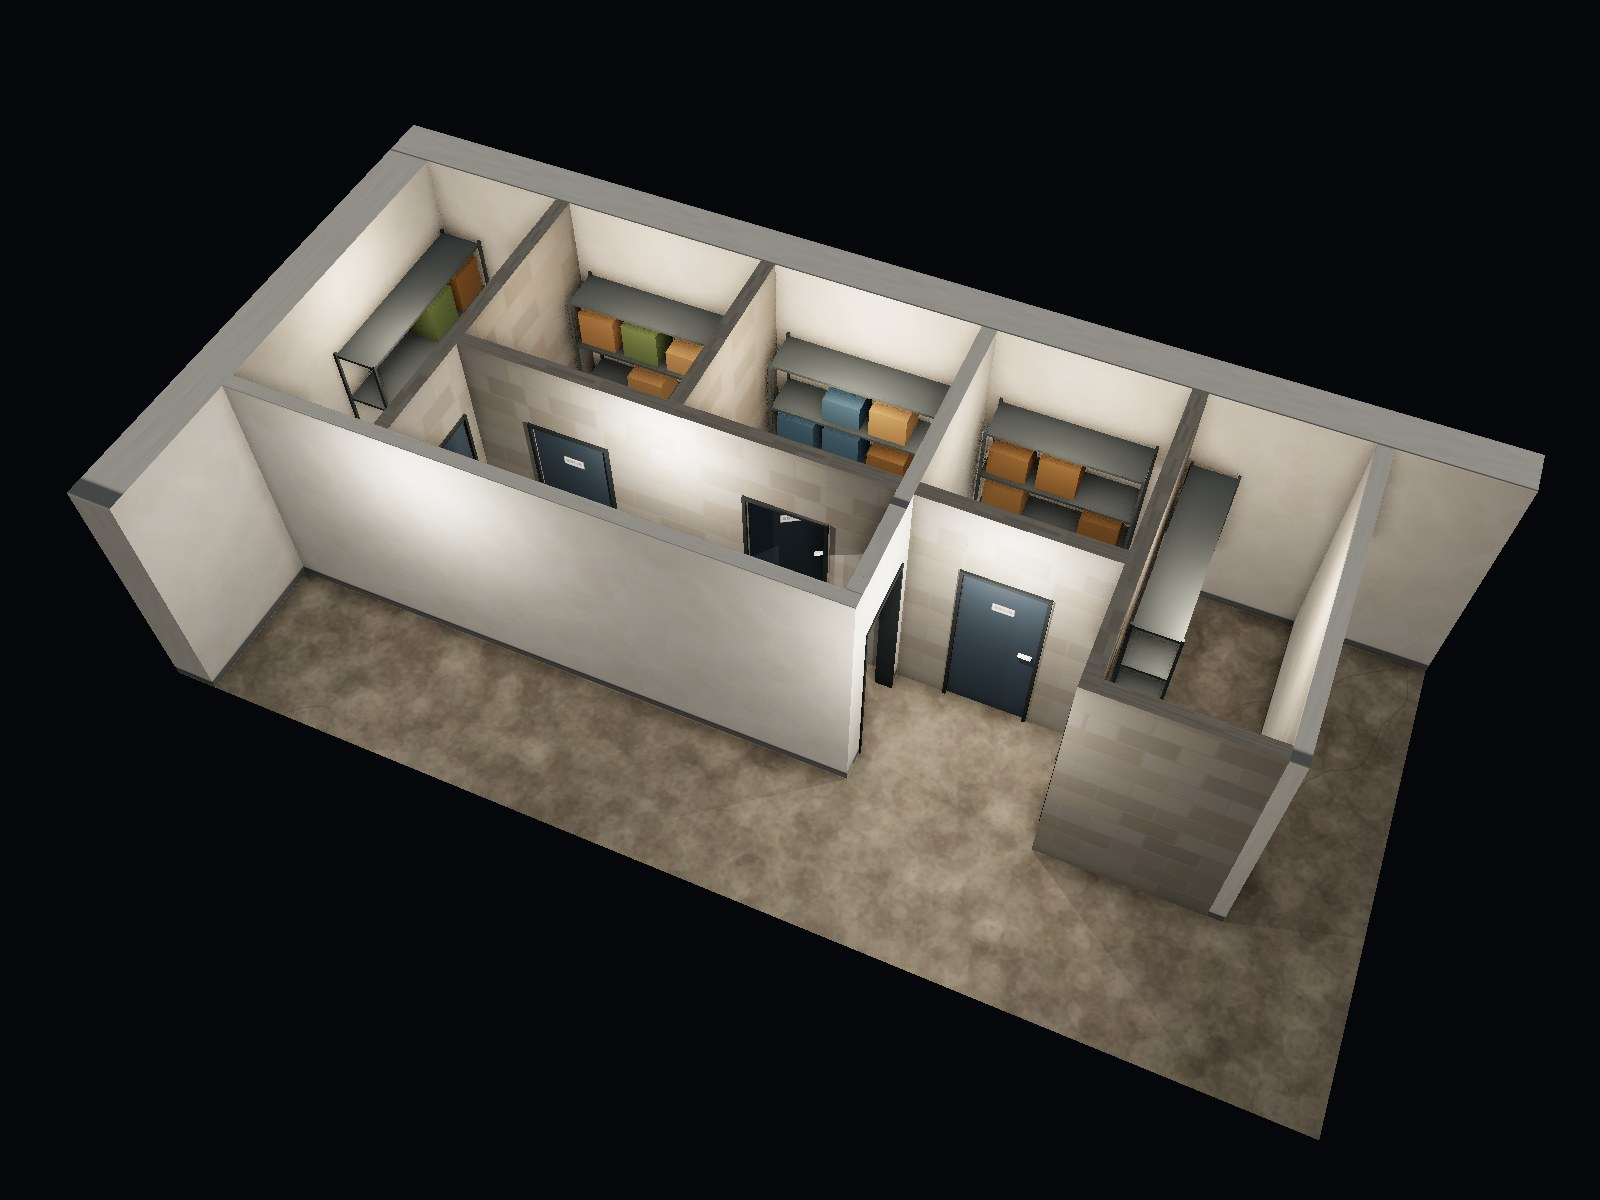
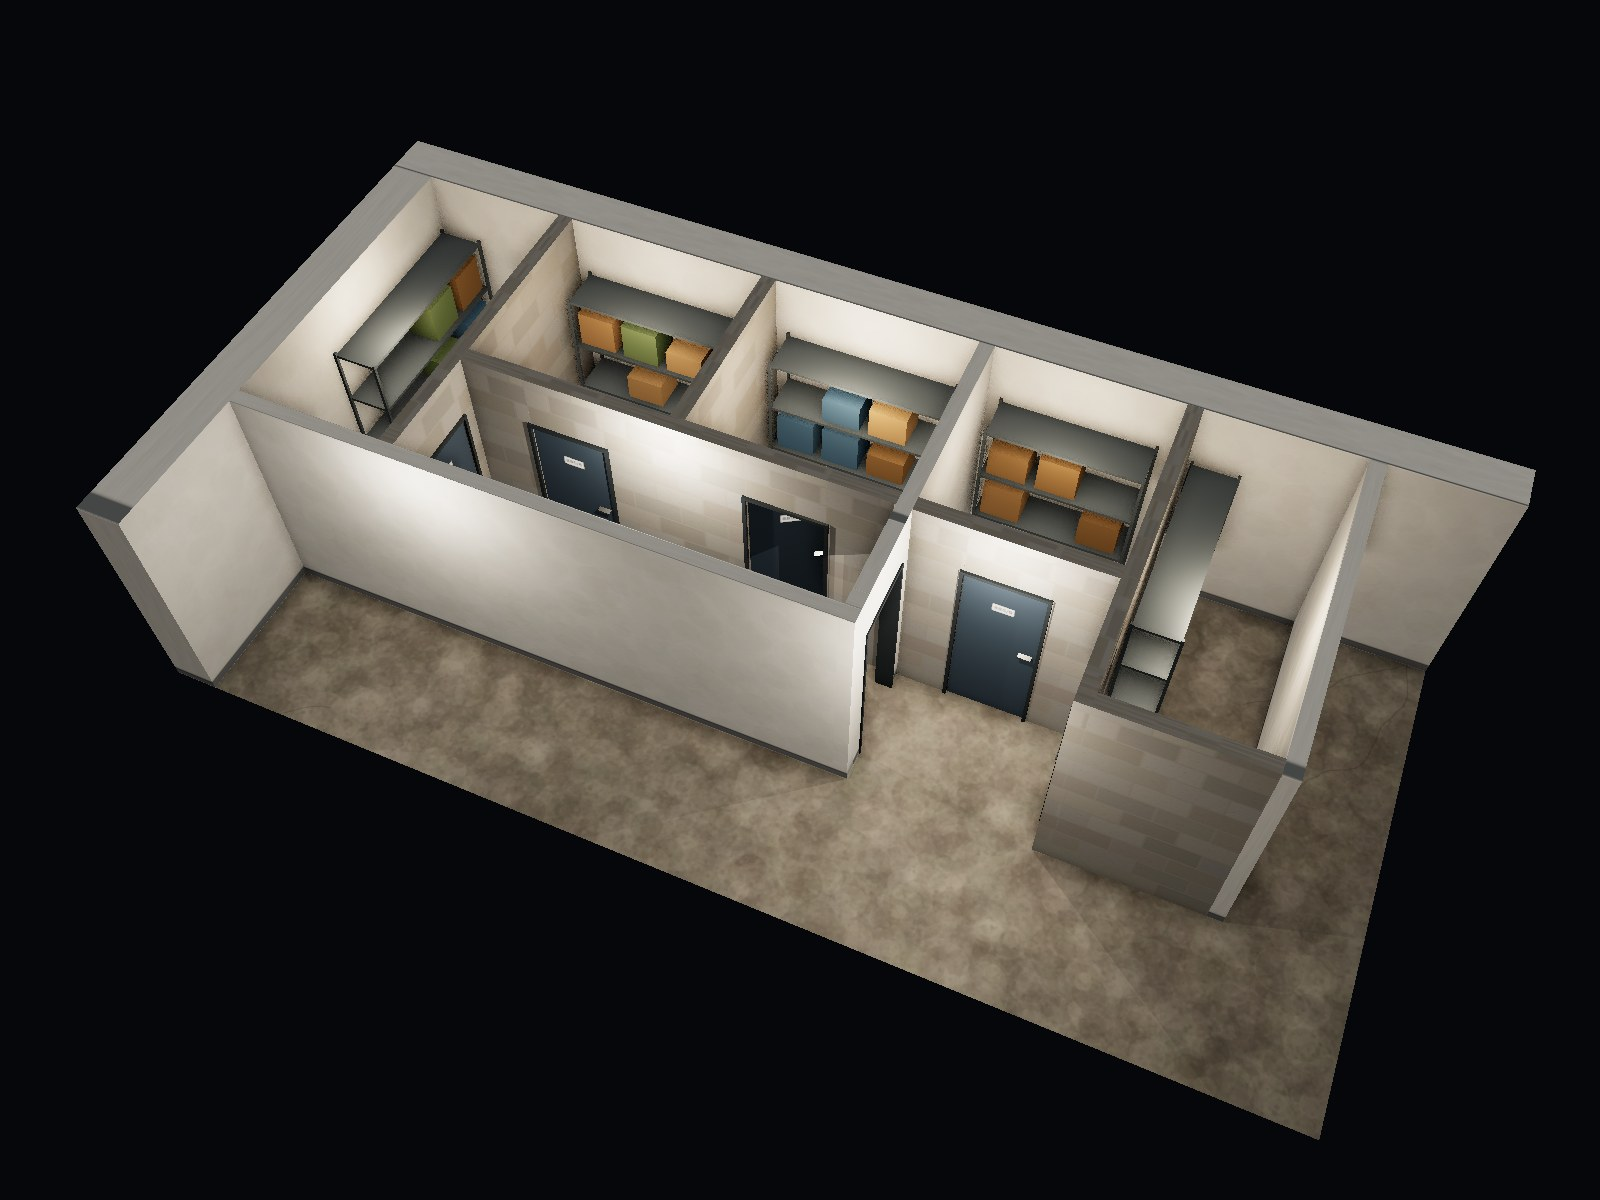
V0 widened to 2,45 m (rows A and B both 23,10 m), clear height 2,60 m in dimensions and 3D
Claude-Session: https://claude.ai/code/session_01PwTnPep7yYfhi5YvdxRW3v

diff --git a/sklepyjachymov.html b/sklepyjachymov.html
@@ -450,17 +450,17 @@
                     <rect x="276" y="274.4" width="220" height="212" class="working-room" onclick="selectItem('working', 'B2', 'Fyzická místnost B2', '5,50 x 5,30 m (29,15 m²)', 'Sklepní prostor pro kóje 885/4 a 885/5')"></rect>
                     <text x="386" y="380" class="label-title">B2 (5,5 × 5,3 m)</text>
 
-                    <rect x="496" y="274.4" width="96" height="212" class="unusable-room" onclick="selectItem('unusable', 'V0', 'Nepoužitelný prostor', '2,40 x 5,30 m', 'Výsep pod schodištěm')"></rect>
+                    <rect x="496" y="274.4" width="98" height="212" class="unusable-room" onclick="selectItem('unusable', 'V0', 'Nepoužitelný prostor', '2,45 x 5,30 m', 'Výsep pod schodištěm')"></rect>
                     <text x="544" y="370" class="label-title" fill="#455a64">V0</text>
                     <text x="544" y="390" class="label-sub" fill="#37474f" font-weight="bold">VÝSEP</text>
 
-                    <rect x="592" y="274.4" width="96" height="212" class="working-room" onclick="selectItem('working', 'B3', 'Fyzická místnost B3', '2,40 x 5,30 m (12,72 m²)', 'Součást nb. j. 885/12')"></rect>
+                    <rect x="594" y="274.4" width="96" height="212" class="working-room" onclick="selectItem('working', 'B3', 'Fyzická místnost B3', '2,40 x 5,30 m (12,72 m²)', 'Součást nb. j. 885/12')"></rect>
                     <text x="640" y="380" class="label-title">B3 (2,4m)</text>
 
-                    <rect x="688" y="274.4" width="132" height="212" class="working-room" onclick="selectItem('working', 'B4', 'Fyzická místnost B4', '3,30 x 5,30 m (17,49 m²)', 'Součást nb. j. 885/12')"></rect>
+                    <rect x="690" y="274.4" width="132" height="212" class="working-room" onclick="selectItem('working', 'B4', 'Fyzická místnost B4', '3,30 x 5,30 m (17,49 m²)', 'Součást nb. j. 885/12')"></rect>
                     <text x="754" y="380" class="label-title">B4 (3,3m)</text>
 
-                    <rect x="820" y="274.4" width="192" height="212" class="working-room" onclick="selectItem('working', 'B5', 'Fyzická místnost B5', '4,80 x 5,30 m (25,44 m²)', 'Součást nb. j. 885/12')"></rect>
+                    <rect x="822" y="274.4" width="192" height="212" class="working-room" onclick="selectItem('working', 'B5', 'Fyzická místnost B5', '4,80 x 5,30 m (25,44 m²)', 'Součást nb. j. 885/12')"></rect>
                     <text x="916" y="380" class="label-title">B5 (4,8 × 5,3 m)</text>
                 </g>
 
@@ -493,7 +493,7 @@
                     <text x="183" y="370" class="label-title" fill="#d84315">nb. j. č. 885/11</text>
                     <text x="183" y="390" class="label-title" fill="#d84315" font-size="11px">(27,83 m²)</text>
 
-                    <path d="M 592,274.4 L 774,274.4 L 774,212 L 1012,212 L 1012,486.4 L 592,486.4 Z" class="official-unit" onclick="selectItem('official', 'nb. j. č. 885/12', 'Nebytová jednotka', 'Výměra z PV: 59,03 m²', 'Společný blok: B3 + B4 + B5 + B6')"></path>
+                    <path d="M 594,274.4 L 774,274.4 L 774,212 L 1014,212 L 1014,486.4 L 594,486.4 Z" class="official-unit" onclick="selectItem('official', 'nb. j. č. 885/12', 'Nebytová jednotka', 'Výměra z PV: 59,03 m²', 'Společný blok: B3 + B4 + B5 + B6')"></path>
                     <text x="802" y="370" class="label-title" fill="#d84315">nb. j. č. 885/12</text>
                     <text x="802" y="390" class="label-title" fill="#d84315" font-size="11px">(59,03 m²)</text>
                 </g>
@@ -751,11 +751,11 @@
                     <text x="386" y="370" class="label-title" fill="#546e7a">B2</text>
                     <text x="386" y="390" class="label-title" fill="#546e7a">Ping pong</text>
 
-                    <rect x="592" y="274.4" width="96" height="212" class="usage-room" onclick="selectItem('usage', 'B3', 'Místnost B3', '12,72 m²', 'Uživatel: Čabinová (byt č. 6)')"></rect>
+                    <rect x="594" y="274.4" width="96" height="212" class="usage-room" onclick="selectItem('usage', 'B3', 'Místnost B3', '12,72 m²', 'Uživatel: Čabinová (byt č. 6)')"></rect>
                     <text x="640" y="370" class="label-title" fill="#4a148c">B3</text>
                     <text x="640" y="390" class="label-title" fill="#4a148c">Čabinová (6)</text>
 
-                    <rect x="688" y="274.4" width="132" height="212" class="usage-room" onclick="selectItem('usage', 'B4', 'Místnost B4', '17,49 m²', 'Uživatel: Urban (byt č. 7)')"></rect>
+                    <rect x="690" y="274.4" width="132" height="212" class="usage-room" onclick="selectItem('usage', 'B4', 'Místnost B4', '17,49 m²', 'Uživatel: Urban (byt č. 7)')"></rect>
                     <text x="754" y="370" class="label-title" fill="#4a148c">B4</text>
                     <text x="754" y="390" class="label-title" fill="#4a148c">Urban (7)</text>
                 </g>
@@ -832,10 +832,10 @@
                         <rect x="90" y="274.4" width="186" height="212" class="v2-out" onclick="selectItem('vis2', 'nb. j. 885/11', 'Mimo řešení', 'B1', 'Nebytová jednotka 885/11 (B1), mimo řešení kójí')"></rect>
                         <text x="183" y="374.4" class="v2-out-label" >nb. j. 885/11</text>
                         <text x="183" y="389.4" class="v2-out-sub" >B1</text>
-                        <rect x="496" y="274.4" width="96" height="212" class="v2-out" onclick="selectItem('vis2', 'VÝSEP', 'Mimo řešení', 'V0', 'Nepoužitelný prostor pod schodištěm')"></rect>
+                        <rect x="496" y="274.4" width="98" height="212" class="v2-out" onclick="selectItem('vis2', 'VÝSEP', 'Mimo řešení', 'V0', 'Nepoužitelný prostor pod schodištěm')"></rect>
                         <text x="544" y="374.4" class="v2-out-label" >VÝSEP</text>
                         <text x="544" y="389.4" class="v2-out-sub" >V0</text>
-                        <rect x="592" y="274.4" width="420" height="212" class="v2-out" onclick="selectItem('vis2', 'nb. j. 885/12', 'Mimo řešení', 'B3 + B4 + B5', 'Nebytová jednotka 885/12, mimo řešení kójí')"></rect>
+                        <rect x="594" y="274.4" width="420" height="212" class="v2-out" onclick="selectItem('vis2', 'nb. j. 885/12', 'Mimo řešení', 'B3 + B4 + B5', 'Nebytová jednotka 885/12, mimo řešení kójí')"></rect>
                         <text x="802" y="374.4" class="v2-out-label" >nb. j. 885/12</text>
                         <text x="802" y="389.4" class="v2-out-sub" >B3 + B4 + B5</text>
                         <rect x="774" y="212" width="240" height="62.4" class="v2-out" onclick="selectItem('vis2', '885/12', 'Mimo řešení', 'B6', 'Součást nebytové jednotky 885/12')"></rect>
@@ -892,8 +892,8 @@
                         <rect x="774" y="212" width="240" height="62.4" class="v2-wall"></rect>
                         <rect x="90" y="274.4" width="186" height="212" class="v2-wall"></rect>
                         <rect x="276" y="274.4" width="220" height="212" class="v2-wall"></rect>
-                        <rect x="496" y="274.4" width="96" height="212" class="v2-wall"></rect>
-                        <rect x="592" y="274.4" width="420" height="212" class="v2-wall"></rect>
+                        <rect x="496" y="274.4" width="98" height="212" class="v2-wall"></rect>
+                        <rect x="594" y="274.4" width="420" height="212" class="v2-wall"></rect>
                         <rect x="90" y="80" width="924" height="406.4" class="v2-outer"></rect>
                         <!-- Otvory ve stávajících zdech (průchody a vstupy do místností) -->
                         <rect x="711" y="214" width="6" height="58.4" class="v2-opening"><title>Průchod chodba C1 → boční chodba</title></rect>
@@ -1275,25 +1275,25 @@
                     <text x="183" y="505" class="dim-text">B1 4,65</text>
                     <line x1="276" y1="512" x2="496" y2="512" class="dim-line"></line>
                     <text x="386" y="505" class="dim-text">B2 5,50</text>
-                    <line x1="496" y1="512" x2="592" y2="512" class="dim-line"></line>
-                    <text x="544" y="505" class="dim-text">V0 2,40</text>
-                    <line x1="592" y1="512" x2="688" y2="512" class="dim-line"></line>
-                    <text x="640" y="505" class="dim-text">B3 2,40</text>
-                    <line x1="688" y1="512" x2="820" y2="512" class="dim-line"></line>
-                    <text x="754" y="505" class="dim-text">B4 3,30</text>
-                    <line x1="820" y1="512" x2="1012" y2="512" class="dim-line"></line>
-                    <text x="916" y="505" class="dim-text">B5 4,80</text>
+                    <line x1="496" y1="512" x2="594" y2="512" class="dim-line"></line>
+                    <text x="545" y="505" class="dim-text">V0 2,45</text>
+                    <line x1="594" y1="512" x2="690" y2="512" class="dim-line"></line>
+                    <text x="642" y="505" class="dim-text">B3 2,40</text>
+                    <line x1="690" y1="512" x2="822" y2="512" class="dim-line"></line>
+                    <text x="756" y="505" class="dim-text">B4 3,30</text>
+                    <line x1="822" y1="512" x2="1014" y2="512" class="dim-line"></line>
+                    <text x="918" y="505" class="dim-text">B5 4,80</text>
                     <line x1="90" y1="482.4" x2="90" y2="516" class="dim-guide"></line>
                     <line x1="276" y1="482.4" x2="276" y2="516" class="dim-guide"></line>
                     <line x1="496" y1="482.4" x2="496" y2="516" class="dim-guide"></line>
-                    <line x1="592" y1="482.4" x2="592" y2="516" class="dim-guide"></line>
-                    <line x1="688" y1="482.4" x2="688" y2="516" class="dim-guide"></line>
-                    <line x1="820" y1="482.4" x2="820" y2="516" class="dim-guide"></line>
-                    <line x1="1012" y1="482.4" x2="1012" y2="516" class="dim-guide"></line>
-                    <line x1="90" y1="540" x2="1012" y2="540" class="dim-line-outer"></line>
-                    <text x="551" y="533" class="dim-text-outer">Celkem řada B: 23,05 m</text>
+                    <line x1="594" y1="482.4" x2="594" y2="516" class="dim-guide"></line>
+                    <line x1="690" y1="482.4" x2="690" y2="516" class="dim-guide"></line>
+                    <line x1="822" y1="482.4" x2="822" y2="516" class="dim-guide"></line>
+                    <line x1="1014" y1="482.4" x2="1014" y2="516" class="dim-guide"></line>
+                    <line x1="90" y1="540" x2="1014" y2="540" class="dim-line-outer"></line>
+                    <text x="552" y="533" class="dim-text-outer">Celkem řada B: 23,10 m</text>
                     <line x1="90" y1="508" x2="90" y2="544" class="dim-guide"></line>
-                    <line x1="1012" y1="508" x2="1012" y2="544" class="dim-guide"></line>
+                    <line x1="1014" y1="508" x2="1014" y2="544" class="dim-guide"></line>
                     <!-- Hloubky vlevo: řada A, chodba C1, řada B -->
                     <line x1="62" y1="80" x2="62" y2="212" class="dim-line"></line>
                     <text x="54" y="146" class="dim-text" transform="rotate(-90 54 146)">A 3,30</text>
@@ -1309,6 +1309,7 @@
                     <text x="28" y="283.2" class="dim-text-outer" transform="rotate(-90 28 283.2)">Celkem: 10,16 m</text>
                     <line x1="32" y1="80" x2="66" y2="80" class="dim-guide"></line>
                     <line x1="32" y1="486.4" x2="66" y2="486.4" class="dim-guide"></line>
+                    <text x="1014" y="553" class="dim-text-outer" style="text-anchor: end;">Světlá výška všech místností: 2,60 m</text>
                     <!-- Hloubky vpravo: A5, B6, B5 -->
                     <line x1="1040" y1="80" x2="1040" y2="212" class="dim-line"></line>
                     <text x="1048" y="146" class="dim-text" transform="rotate(-90 1048 146)">A5 3,30</text>

diff --git a/vizualizace3d-b2.html b/vizualizace3d-b2.html
@@ -32,7 +32,7 @@
     <div class="panel">
         <h1>Místnost B2 – cílový stav</h1>
         <p>Tři nové kóje <b>885/5, 885/X, 885/4</b> (vnitřně 3,40 × 1,67 m), příčky z tvárnic 15 cm až ke stropu, dveře 0,80 m z volné části B2 (šířka 1,95 m).</p>
-        <p class="note">Orientační vizualizace podle Návrhu cílového stavu 2 a fotografie současného stavu. Rozměry dle půdorysu, výška stropu 2,80 m. Myší lze pohled otáčet a přibližovat.</p>
+        <p class="note">Orientační vizualizace podle Návrhu cílového stavu 2 a fotografie současného stavu. Rozměry dle půdorysu, světlá výška 2,60 m. Myší lze pohled otáčet a přibližovat.</p>
         <div class="buttons">
             <button data-view="photo" class="active">Pohled od vstupu</button>
             <button data-view="cutaway">Řez shora</button>
@@ -51,7 +51,7 @@
         import { OutputPass } from 'three/addons/postprocessing/OutputPass.js';
 
         // Rozměry v metrech: x = od západní stěny (kóje), z = od chodby C1 k oknům, y = výška
-        const W = 5.5, D = 5.3, H = 2.8;
+        const W = 5.5, D = 5.3, H = 2.6;
         const KX = 3.40, PT = 0.15;               // šířka kójí a tloušťka příčky
         const KD = (D - 2 * PT) / 3;              // hloubka kóje 1,667 m
         const KOJE = ['885/5', '885/X', '885/4'];
@@ -193,7 +193,7 @@
         ceiling.userData.cutaway = true;
 
         // Stěny místnosti (vnitřní líc) – jižní stěna s okny se skládá z tvaru s otvory
-        const WIN = [{ cx: 3.95, w: 0.95, y0: 1.35, y1: 2.30 }, { cx: 1.85, w: 0.95, y0: 1.35, y1: 2.30 }];
+        const WIN = [{ cx: 3.95, w: 0.95, y0: 1.20, y1: 2.10 }, { cx: 1.85, w: 0.95, y0: 1.20, y1: 2.10 }];
         function shapeWall(len, holes, tex) {
             const s = new THREE.Shape();
             s.moveTo(0, 0); s.lineTo(len, 0); s.lineTo(len, H); s.lineTo(0, H); s.lineTo(0, 0);
@@ -266,9 +266,9 @@
             m.quaternion.setFromUnitVectors(new THREE.Vector3(0, 1, 0), vb.clone().sub(va).normalize());
             return m;
         };
-        pipe([W - 0.06, 2.45, 0.6], [W - 0.06, 2.45, D - 0.06]).userData.cutaway = true;
-        pipe([W - 0.06, 2.45, D - 0.06], [3.35, 2.45, D - 0.06]);
-        pipe([4.55, 2.45, D - 0.06], [4.55, 1.70, D - 0.06]);
+        pipe([W - 0.06, H - 0.38, 0.6], [W - 0.06, H - 0.38, D - 0.06]).userData.cutaway = true;
+        pipe([W - 0.06, H - 0.38, D - 0.06], [3.35, H - 0.38, D - 0.06]);
+        pipe([4.55, H - 0.38, D - 0.06], [4.55, 1.70, D - 0.06]);
 
         // ---------- Kóje: příčky z tvárnic 15 cm ----------
         const blockMat = (len, seed) => { const t = blockTexture(len, H, seed); return std({ map: t, bumpMap: t, bumpScale: 0.8, roughness: 0.95 }); };
@@ -353,8 +353,8 @@
 
         // Přívod vody na východní stěně: svislé potrubí zakryté plechovým krytem, vodorovně pod stropem
         const coverMat = std({ color: '#d9dcdc', metalness: 0.3, roughness: 0.5 });
-        const waterCover = add(box(0.12, H - 0.25, 0.2), coverMat, W - 0.06, (H - 0.25) / 2, 3.2);
-        const waterPipe = add(new THREE.CylinderGeometry(0.025, 0.025, 3.2, 14), pvc, W - 0.07, H - 0.18, 1.6);
+        const waterCover = add(box(0.12, H - 0.45, 0.2), coverMat, W - 0.06, (H - 0.45) / 2, 3.2);
+        const waterPipe = add(new THREE.CylinderGeometry(0.025, 0.025, 3.2, 14), pvc, W - 0.06, H - 0.45, 1.6);
         waterPipe.rotation.x = Math.PI / 2;
         waterCover.userData.cutaway = waterPipe.userData.cutaway = true;
 

diff --git a/vizualizace3d-a1a2.html b/vizualizace3d-a1a2.html
@@ -33,7 +33,7 @@
         <h1>Místnosti A1 a A2 – cílový stav</h1>
         <p><b>A1:</b> 885/1 (1,50 × 3,30 m), 885/6 a 885/8 (2,10 × 2,00 m). <b>A2:</b> 885/9 (1,85 × 2,00 m), 885/2 (1,50 × 3,30 m).</p>
         <p>Přístup z chodby C1 otevřený v celé šířce 885/9 (1,85 m), do A1 průchodem bez dveří. Příčky z tvárnic 15 cm až ke stropu, dveře 0,80 m.</p>
-        <p class="note">Orientační vizualizace podle Návrhu cílového stavu 2. Rozměry dle půdorysu, výška stropu 2,80 m, stěny s opravenou omítkou. Okna a rozvody v A1 a A2 nejsou zakresleny (nemám podklad). Myší lze pohled otáčet a přibližovat.</p>
+        <p class="note">Orientační vizualizace podle Návrhu cílového stavu 2. Rozměry dle půdorysu, světlá výška 2,60 m, stěny s opravenou omítkou. Okna a rozvody v A1 a A2 nejsou zakresleny (nemám podklad). Myší lze pohled otáčet a přibližovat.</p>
         <div class="buttons">
             <button data-view="entry" class="active">Pohled od vstupu</button>
             <button data-view="a1">Přístup v A1</button>
@@ -53,7 +53,7 @@
 
         // Souřadnice v metrech: x = od západní stěny A1 k východu, z = od severní stěny k chodbě C1, y = výška.
         // Rozměry kójí jsou vnitřní; stávající stěny i nové příčky mají 15 cm.
-        const H = 2.8, PT = 0.15;
+        const H = 2.6, PT = 0.15;
         const A1W = 6.0, OX = A1W + PT, A2W = 3.5;   // A2 začíná za stěnou A1/A2
         const DEP = 3.3;                             // hloubka A1 a A2
         const C1Z = DEP + PT, C1D = 1.56;            // chodba C1
